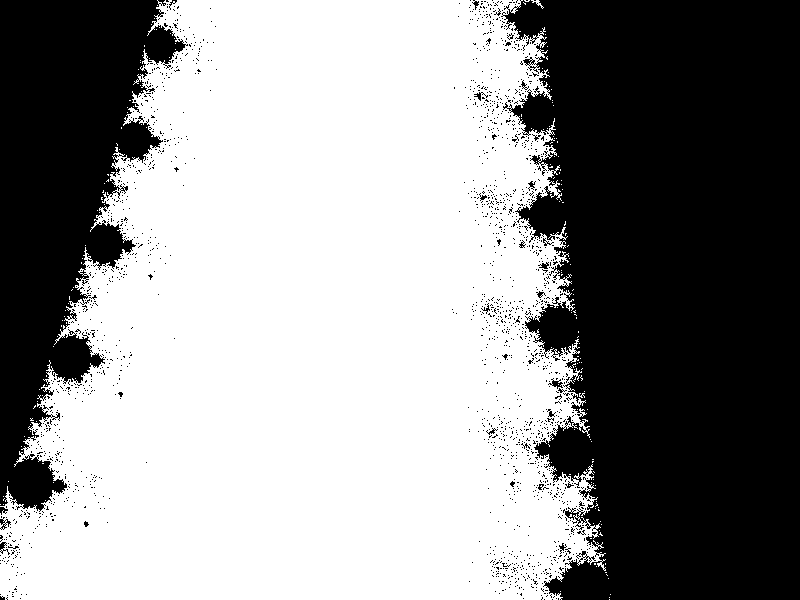
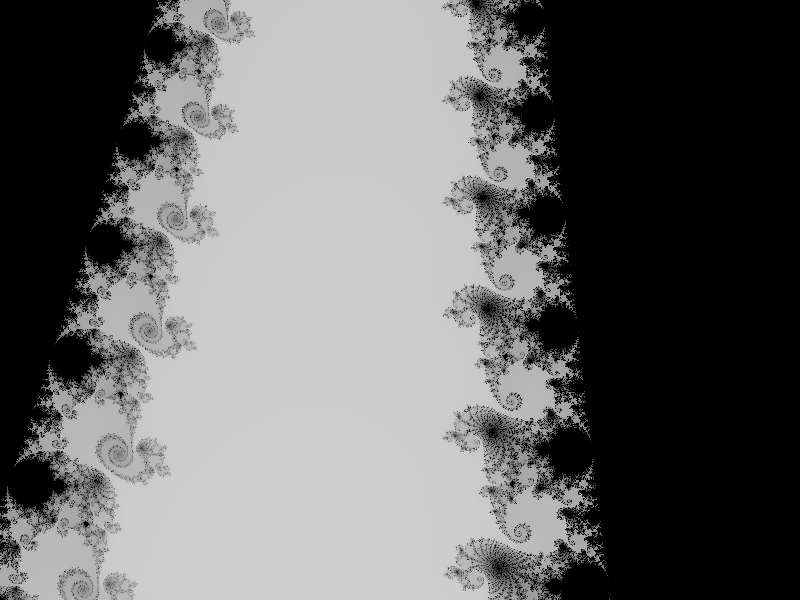
Add colour calculation

diff --git a/fract/mandelbrot_calculator.py b/fract/mandelbrot_calculator.py
@@ -1,7 +1,6 @@
 from __future__ import annotations
 
 from datetime import datetime
-from math import ceil
 from multiprocessing import Lock, Manager, Pool, Queue, current_process
 from os.path import join
 from pathlib import Path
@@ -13,8 +12,10 @@ from typing import Iterator, Type
 import png
 
 from fract.calculation_job import CalculationJob
+from fract.colors import to_greyscale
 from fract.export_job import ExportJob
 from fract.logging import logger
+from fract.to_color import ToColor
 
 
 class MandelbrotCalculator:
@@ -89,6 +90,20 @@ class MandelbrotCalculator:
         calculation_queue: "Queue[CalculationJob | None]",
         export_queue: "Queue[str | None]",
     ) -> None:
+        try:
+            self._start_calculation_worker_unsafe(
+                calculation_queue,
+                export_queue,
+            )
+        except Exception:
+            logger.exception("Calculation failed.")
+            raise
+
+    def _start_calculation_worker_unsafe(
+        self,
+        calculation_queue: "Queue[CalculationJob | None]",
+        export_queue: "Queue[str | None]",
+    ) -> None:
         name = current_process().name
         logger.debug("Calculation worker %s started", name)
 
@@ -114,17 +129,19 @@ class MandelbrotCalculator:
             pixel_width = job["pixel_width"]
 
             path = join(working_directory, str(y))
-            result_byte_length = ceil(max_iterations.bit_length() / 8.0)
 
             with open(path, "wb") as f:
                 for x in range(pixel_width):
-                    count = MandelbrotCalculator.count_iterations(
+                    color = MandelbrotCalculator.calculate_color(
+                        job["to_color"],
                         main_real + (x / pixel_width) * job["real_span"],
                         imaginary,
                         max_iterations,
                     )
 
-                    f.write(count.to_bytes(result_byte_length))
+                    f.write(color[0].to_bytes(16))
+                    f.write(color[1].to_bytes(16))
+                    f.write(color[2].to_bytes(16))
 
             with self._remaining_lock:
                 remaining_count = self._remaining[working_directory] - 1
@@ -137,6 +154,13 @@ class MandelbrotCalculator:
                 export_queue.put(working_directory)
 
     def _start_export_worker(self, queue: "Queue[str | None]") -> None:
+        try:
+            self._start_export_worker_unsafe(queue)
+        except Exception:
+            logger.exception("Export failed.")
+            raise
+
+    def _start_export_worker_unsafe(self, queue: "Queue[str | None]") -> None:
         name = current_process().name
         logger.debug("Export worker %s started", name)
 
@@ -160,40 +184,42 @@ class MandelbrotCalculator:
             path = job["path"]
             width = job["width"]
             height = job["height"]
-            max_iterations = job["max_iterations"]
 
             with open(path, "wb") as f:
                 writer = png.Writer(
                     width,
                     height,
+                    bitdepth=16,
                     greyscale=False,
                 )
 
                 rows = MandelbrotCalculator.iterations_to_color_rows(
                     height,
-                    max_iterations,
                     working_directory,
                 )
 
                 writer.write(f, rows)
 
+            logger.info("Exported %s.", path)
+
             rmtree(working_directory)
 
     @staticmethod
-    def count_iterations(
+    def calculate_color(
+        to_color: ToColor,
         real: float,
         imaginary: float,
         maximum: int,
-    ) -> int:
+    ) -> tuple[int, int, int]:
         """
         Counts the number of iterations required for the point (`real`,
         `imaginary`) to escape the Mandelbrot set, to a `maximum` iteration.
         """
 
-        if MandelbrotCalculator.estimate_in_mandelbrot_set(real, imaginary):
-            return maximum
-
         count = 0
+
+        if MandelbrotCalculator.estimate_in_mandelbrot_set(real, imaginary):
+            count = maximum
 
         x = 0.0
         y = 0.0
@@ -210,11 +236,12 @@ class MandelbrotCalculator:
             y = ((2 * x) * y) + imaginary
             x = (x_squared - y_squared) + real
 
+            if x == x_cycle and y == y_cycle:
+                count = maximum
+                break
+
             x_squared = x * x
             y_squared = y * y
-
-            if x == x_cycle and y == y_cycle:
-                return maximum
 
             period += 1
 
@@ -225,13 +252,14 @@ class MandelbrotCalculator:
 
             count += 1
 
-        return count
+        return to_color(count, maximum)
 
     def enqueue(
         self,
         width: int,
         height: int,
         path: Path | str,
+        to_color: ToColor | None = None,
         real: float = -0.65,
         imaginary: float = 0.0,
         real_span: float = 3.0,
@@ -241,7 +269,6 @@ class MandelbrotCalculator:
 
         self._exports[working_directory] = ExportJob(
             height=height,
-            max_iterations=max_iterations,
             path=path.as_posix() if isinstance(path, Path) else path,
             width=width,
         )
@@ -258,6 +285,7 @@ class MandelbrotCalculator:
                 pixel_height=height,
                 pixel_width=width,
                 real_span=real_span,
+                to_color=to_color or to_greyscale,
                 working_directory=working_directory,
                 y=y,
             )
@@ -298,11 +326,9 @@ class MandelbrotCalculator:
     @staticmethod
     def iterations_to_color_rows(
         height: int,
-        max_iterations: int,
         working_directory: str,
     ) -> Iterator[list[int]]:
         colors: list[int] = []
-        result_byte_length = ceil(max_iterations.bit_length() / 8.0)
 
         for y in range(height):
             if y > 0:
@@ -312,12 +338,11 @@ class MandelbrotCalculator:
             path = join(working_directory, str(y))
 
             with open(path, "rb") as f:
-                while read_bytes := f.read(result_byte_length):
-                    iteration_count = int.from_bytes(read_bytes)
+                while r_bytes := f.read(16):
+                    r = int.from_bytes(r_bytes)
+                    g = int.from_bytes(f.read(16))
+                    b = int.from_bytes(f.read(16))
 
-                    if iteration_count < max_iterations:
-                        colors.extend([255, 255, 255])
-                    else:
-                        colors.extend([0, 0, 0])
+                    colors.extend([r, g, b])
 
         yield colors

diff --git a/tests/test_mandelbrot.py b/tests/test_mandelbrot.py
@@ -38,3 +38,12 @@ def test_mandelbrot_calculator() -> None:
             imaginary=7.564322879586228138815367330951882912101e-02,
             real_span=2.525954765394997575123068990514486572846e-02,
         )
+
+        calculator.enqueue(
+            width,
+            height,
+            docs / "blob.png",
+            real=-7.477206299701217857868874599694192861252e-01,
+            imaginary=7.647562179933755900697580511712126156030e-02,
+            real_span=4.789022958086932357423846003655134377124e-03,
+        )

diff --git a/tests/conftest.py b/tests/conftest.py
@@ -1,7 +1,5 @@
-# from logging import DEBUG
+from logging import INFO
 
-# from fract.logging import logger
+from fract.logging import logger
 
-# NOTE: Fract logs a *lot* a DEBUG, and it severely slows rendering. Enable
-# NOTE: debug logging during testing only when it's useful.
-# logger.setLevel(DEBUG)
+logger.setLevel(INFO)

diff --git a/fract/calculation_job.py b/fract/calculation_job.py
@@ -1,5 +1,7 @@
 from typing import TypedDict
 
+from fract.to_color import ToColor
+
 
 class CalculationJob(TypedDict):
     imaginary_span: float
@@ -9,5 +11,6 @@ class CalculationJob(TypedDict):
     pixel_height: int
     pixel_width: int
     real_span: float
+    to_color: ToColor
     working_directory: str
     y: int

diff --git a/fract/colors.py b/fract/colors.py
@@ -1,0 +1,7 @@
+from math import ceil, sqrt
+
+
+def to_greyscale(count: int, maximum: int) -> tuple[int, int, int]:
+    max_color = 65_535
+    r = ceil(max_color + sqrt(count / maximum) * (-max_color))
+    return (r, r, r)

diff --git a/fract/__init__.py b/fract/__init__.py
@@ -1,7 +1,9 @@
 from fract.mandelbrot import mandelbrot_calculator
+from fract.to_color import ToColor
 from fract.version_func import version
 
 __all__ = [
+    "ToColor",
     "mandelbrot_calculator",
     "version",
 ]

diff --git a/fract/export_job.py b/fract/export_job.py
@@ -3,6 +3,5 @@ from typing import TypedDict
 
 class ExportJob(TypedDict):
     height: int
-    max_iterations: int
     path: str
     width: int

diff --git a/fract/to_color.py b/fract/to_color.py
@@ -1,0 +1,3 @@
+from typing import Callable
+
+ToColor = Callable[[int, int], tuple[int, int, int]]
